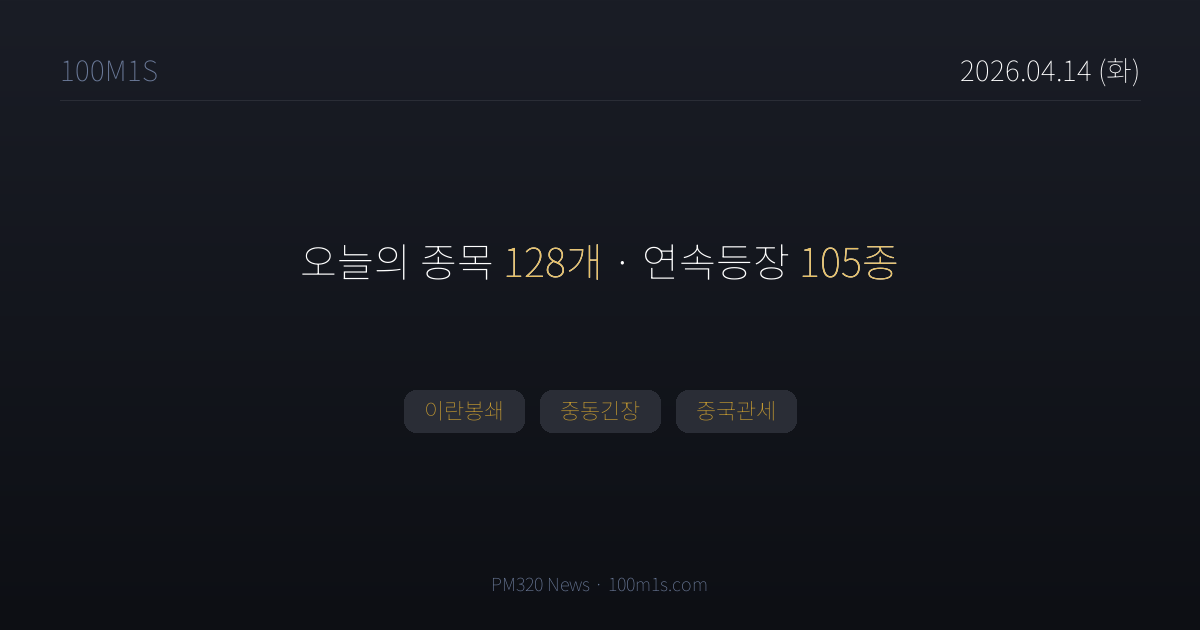
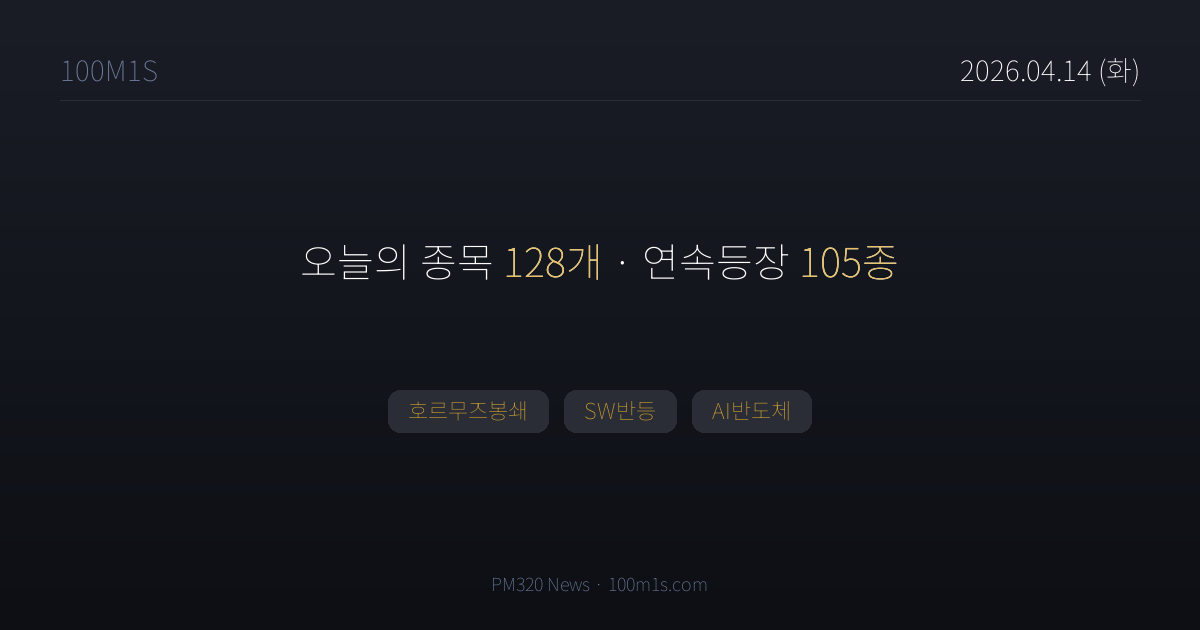
chore(news): 2026-04-14T07:58 pipeline

Changed region(s): [[0.3083, 0.6032, 0.6783, 0.6937]]

diff --git a/news/2026-04-14.html b/news/2026-04-14.html
@@ -4,7 +4,7 @@
 <meta charset="UTF-8">
 <title>4월 14일 (화) 뉴스 — 100M1S</title>
 <meta property="og:title" content="4월 14일 (화) · 종목 128개">
-<meta property="og:description" content="이란봉쇄, 중동긴장, 중국관세">
+<meta property="og:description" content="호르무즈봉쇄, SW반등, AI반도체">
 <meta property="og:image" content="https://100m1s.com/og/2026-04-14.png">
 <meta property="og:image:width" content="1200">
 <meta property="og:image:height" content="630">
